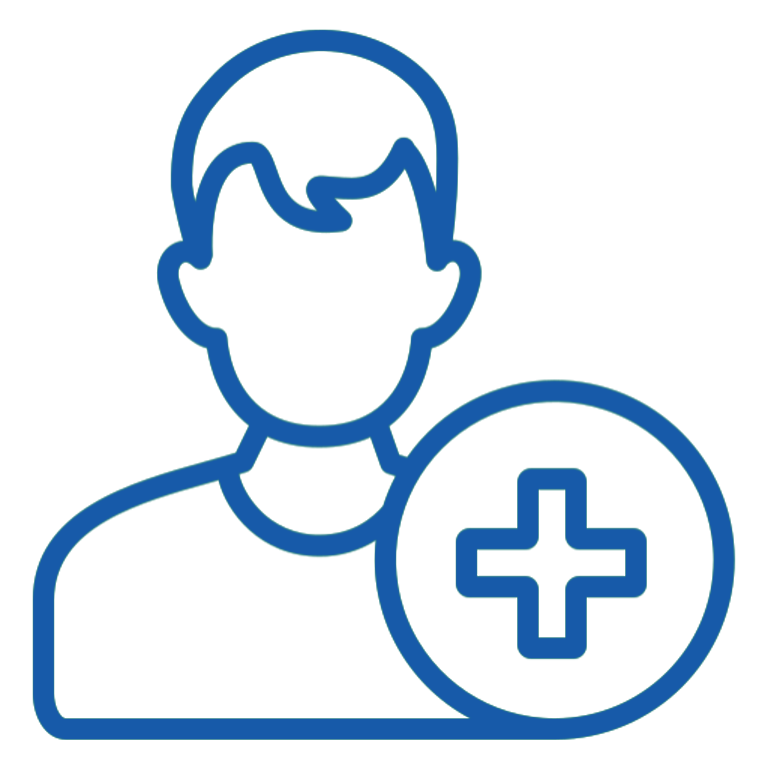
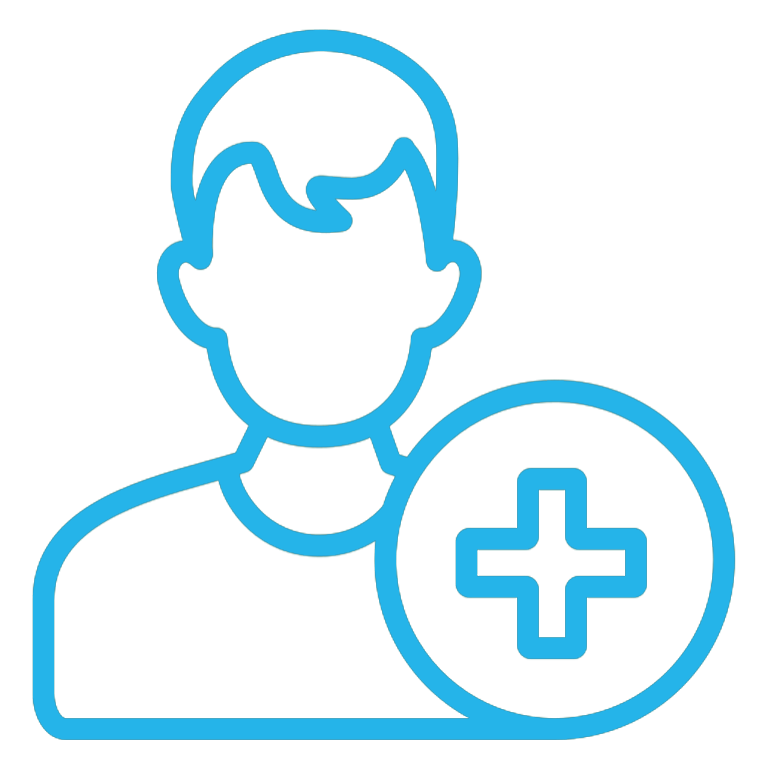
vet-init

Changed region(s): [[0.0312, 0.0312, 0.9688, 0.9688], [0.5938, 0.5938, 0.8438, 0.875]]

diff --git a/src/main/webapp/dist-assets/css/themes/ChangeColor.css b/src/main/webapp/dist-assets/css/themes/ChangeColor.css
@@ -3,26 +3,26 @@
 }
 
 .btn-primary{
-    background: #175aa9 !important;
+    background: #24b4e9 !important;
 }
 
 .btn-info, .btn-outline-info {
-    border-color: #7583e0 !important;
-    background: #175aa9 !important;
+    border-color: #78d5f7  !important;
+    background: #24b4e9 !important;
 }
 
 .btn-primary, .btn-outline-primary {
-    border-color: #7583e0 !important;
+    border-color: #78d5f7  !important;
 }
 
 .btn-info:hover, .btn-outline-info:hover {
-    background: #7583e0;
-    box-shadow: 0 8px 25px -8px #7583e0;
+    background: #78d5f7 ;
+    box-shadow: 0 8px 25px -8px #78d5f7 ;
 }
 
 .btn-primary:hover, .btn-outline-primary:hover {
-    background: #7583e0;
-    box-shadow: 0 8px 25px -8px #7583e0;
+    background: #78d5f7 ;
+    box-shadow: 0 8px 25px -8px #78d5f7 ;
 }
 
 

diff --git a/src/main/webapp/Scripts/Views.js b/src/main/webapp/Scripts/Views.js
@@ -207,7 +207,7 @@ function SiteNavigation()
         let DropDownRemainder = new Div(undefined, "dropown");
         let DivBadgeTop = new Div("dropdownNotification", "badge-top-container", [new Attribute(_AttributeDataToggle, "dropdown"), new Attribute(_AttributeAriaHaspopup, "true"), new Attribute(_AttributeAriaExpand, "false")]);
         DropDownRemainder.appendChild(DivBadgeTop);
-        let BellIcon = new Span(undefined, undefined, "i-Bell header-icon",[new Attribute("style", "color: #175aa9 ;")]);
+        let BellIcon = new Span(undefined, undefined, "i-Bell header-icon",[new Attribute("style", "color: #24b4e9 ;")]);
         DivBadgeTop.appendChild(BellIcon);
         DivRightHeaderPart.appendChild(DropDownRemainder);
 

diff --git a/src/main/webapp/Scripts/Main.js b/src/main/webapp/Scripts/Main.js
@@ -6,7 +6,7 @@ const _GasEnabled = true;
 const _LiveEnabled = true;
 
 //LIVE
-const _ServiceURL = _GasEnabled ? "https://clinic.medica.lk/API" : "http://api.medica.gq";
+const _ServiceURL = _GasEnabled ? "https://vet-api.medica.lk" : "http://api.medica.gq";
 
 //TEST
 // const _ServiceURL = _LiveEnabled ? "https://ayu-api.medica.lk" : "http://api.medica.gq";

diff --git a/src/main/webapp/Scripts/Events.js b/src/main/webapp/Scripts/Events.js
@@ -53,7 +53,7 @@ function LnkDoctorOnline_Click()
 }
 function LnkVirtualconsultation_Click()
 {
-    window.location.replace("https://docnote.medica.lk/");
+    window.location.replace("https://vet.medica.lk/");
 }
 function LnkEditProfile_Click()
 {
